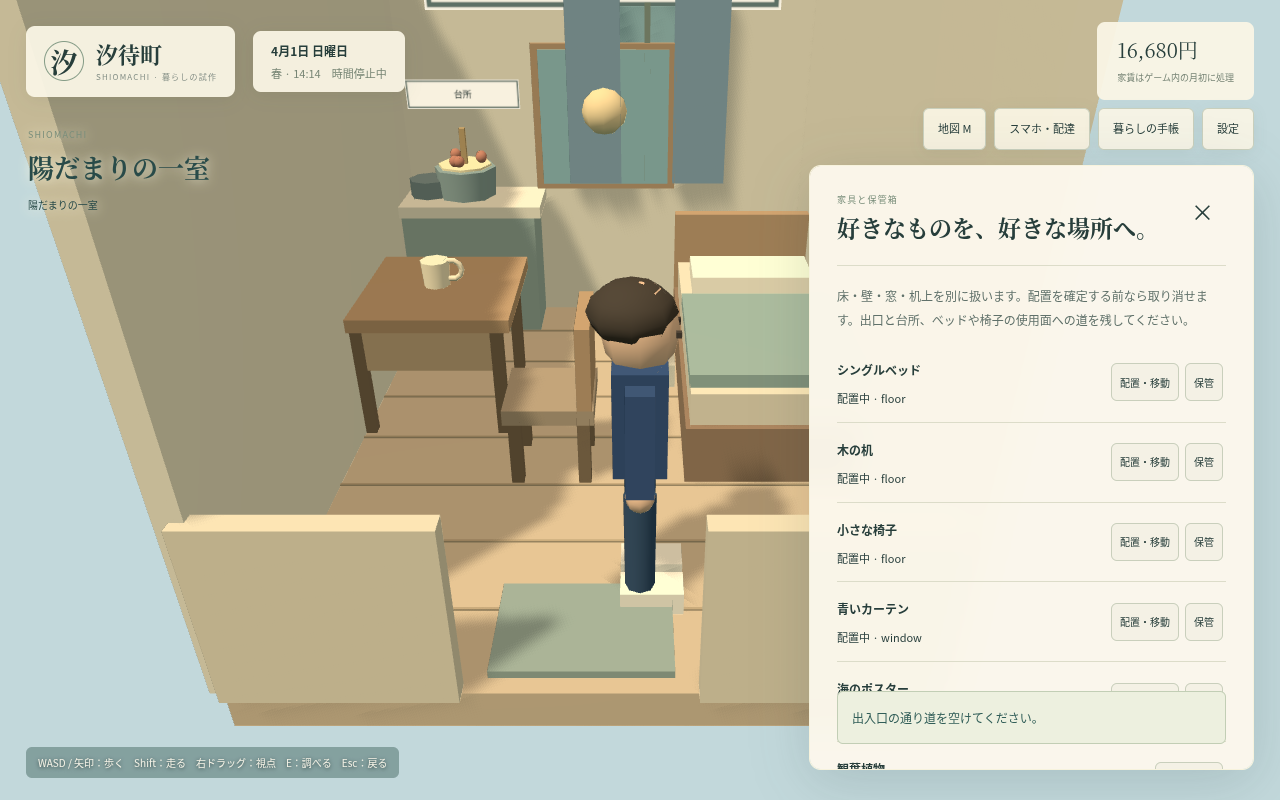
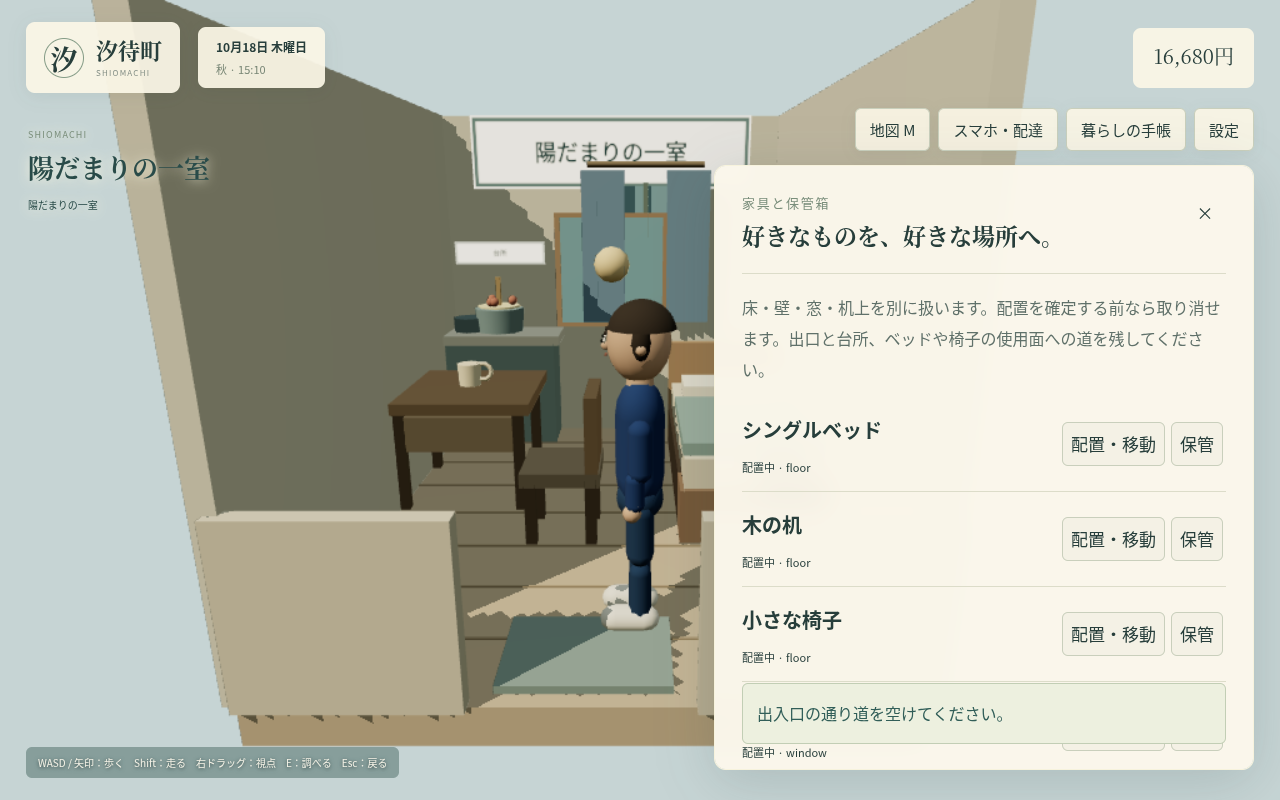
Confirm complete life loop on the autumn district with preserved furniture and saves

diff --git a/games/japan-life/TESTING.md b/games/japan-life/TESTING.md
@@ -21,6 +21,8 @@
 
 最終一括の途中経過：R1、配布関係3件（実HTTPで旧形式の再開を含む）、四客の道具操作、会話4件が成功。連続生活は徒歩で二店舗集荷・住宅への二件配達まで到達。R1の最新動画は約36秒・56実フレーム。`ART_REVIEW.md`に実画像の具体的な不足を記録した。残りの結果は実行後に更新する。
 
+**改修後の生活一巡が成功（6.2分）**。三室内見、食材・家具・服の購入、四客勤務、二店集荷と二住宅の玄関への徒歩配達、着替え、日常／地域料理と食事、壁・床・机上の家具編集と通路拒否、ラジオの配置と選曲、睡眠・再読込、所有家具を保つ転居を、場面間のテスト用瞬間移動なしで確認した。`evidence/04`〜`10`・`16`の画像は改修版へ更新している。旧v0.2当時の画像はGitの過去コミット4585638から取得できる。
+
 以下はv0.2.0の検証履歴。改修後の未実行項目を成功に読み替えない。
 
 2026-10-18／japan-life v0.2.0。環境：Linux、Node.js 24.19.0、npm 11.9.0、Chromium 154.0.8037.57、Playwright 1.61.1。実際のThree.js／WebGL描画とDOM操作を使い、ゲームの描画を画像やモックへ置換していない。専用の検証サーバーはクラウド内部用で、利用者向け公開URLではない。

diff --git a/games/japan-life/PROGRESS.md b/games/japan-life/PROGRESS.md
@@ -23,6 +23,8 @@
 
 実画像の具体的な不足と次の美術制作は`ART_REVIEW.md`へ記録した。R1の最新動画は約36秒・56実フレーム。以前の録画を同じパスへ更新しており、旧録画は過去コミットから取得できる。
 
+生活一巡の改修後回帰が**6.2分で成功**。三室内見→同一セーブの徒歩で食材購入→道具で四客勤務→二店集荷→二住宅へ配達→家具と服の購入→帰宅・着替え→ごはん／たこめし・食事→壁と床・机上家具・ラジオ→睡眠→再読込→一住居の転居を確認した。残りの公園・60人・タッチ・音・季節の一括結果を確認後、最終記録へ整理する。
+
 下の「未実装」は仕様を保存した時点の履歴で、上の最新チェックポイントを優先する。
 
 2026-10-18／試作 v0.2.0。対象：SPEC v0.2・CONTENT_PLAN・CODEX_TASKSのM1/M2。実装はこの作品内で独立させ、英語試作を変更しない。
